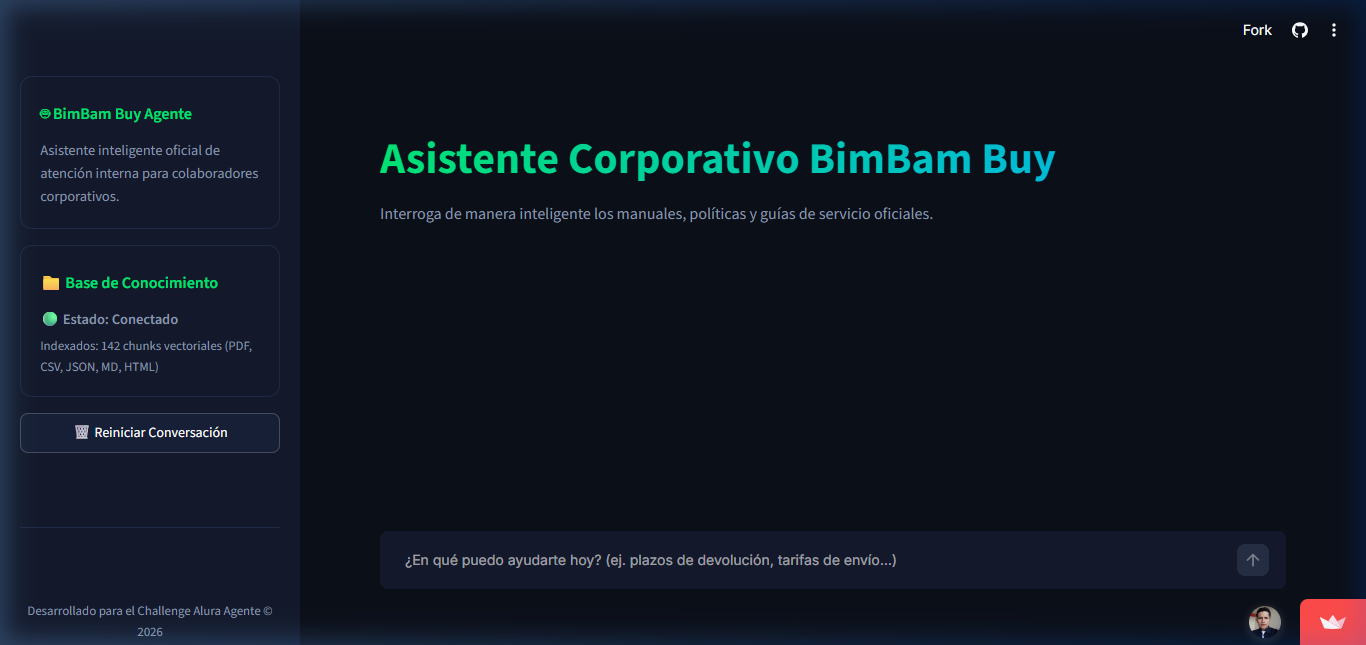
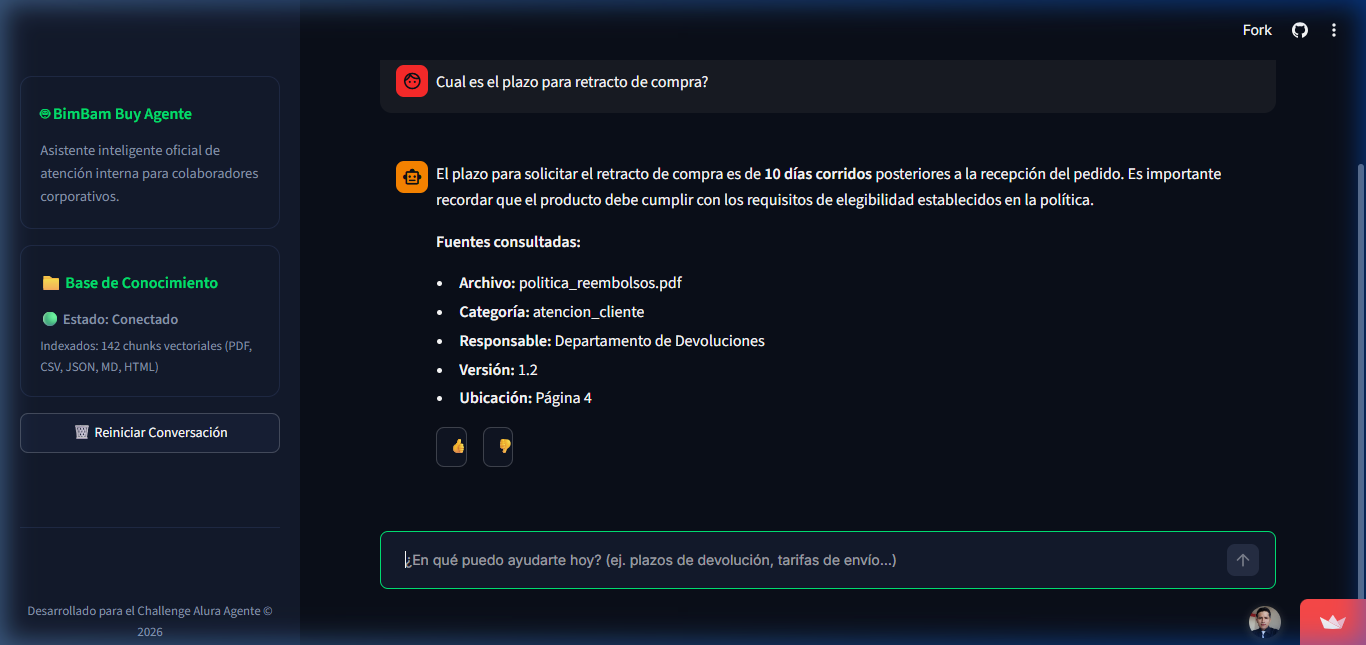
docs: actualizar README y captura de pantalla final de produccion
- Actualizadas tecnologias, variables de entorno y arquitectura hibrida

- Agregada explicacion de optimizaciones de latencia y cuotas con Groq + Qwen

- Reemplazada app_screenshot.png con captura real de Qwen respondiendo instantaneamente en Streamlit Cloud

diff --git a/README.md b/README.md
@@ -29,7 +29,7 @@ El flujo operativo del agente se divide en tres fases principales:
 - **Lenguaje:** Python 3.10+
 - **Orquestación de IA:** LangChain & LangGraph
 - **Base de Datos Vectorial:** FAISS / Chroma
-- **Modelos de IA:** API de Google Gemini (`gemini-flash-latest` y `models/gemini-embedding-001`)
+- **Modelos de IA:** API de Groq con el modelo **`qwen/qwen3.6-27b`** (razonamiento ReAct) y API de Google Gemini (**`models/gemini-embedding-001`** para embeddings vectoriales)
 - **Interfaz Web:** Streamlit
 - **Infraestructura Cloud:** Oracle Cloud Infrastructure (OCI)
 
@@ -60,7 +60,8 @@ pip install -r requirements.txt
 ### 4. Configurar Variables de Entorno
 Crea un archivo `.env` en la raíz del proyecto a partir de `.env.example`:
 ```bash
-GEMINI_API_KEY=tu_api_key_aqui
+GOOGLE_API_KEY=tu_api_key_de_google_aqui # Para embeddings vectoriales de FAISS
+GROQ_API_KEY=tu_api_key_de_groq_aqui     # Para el agente conversacional Qwen
 ```
 
 ### 5. Ingesta de Documentos
@@ -85,8 +86,8 @@ Debido a limitaciones temporales de disponibilidad de recursos gratuitos en las 
 [ OCI Object Storage ] --(Descarga Segura HTTP)--> [ App Streamlit Cloud ]
 (Bucket: bimbam-buy-docs)                           (bimbambuy-agente)
                                                             |
-                                                   [ Gemini API (LLM) ]
-                                                   (gemini-flash-latest)
+                                                   [ Groq LPU API ]
+                                                   (qwen/qwen3.6-27b)
 ```
 
 ### 1. Almacenamiento en OCI Object Storage
@@ -101,10 +102,10 @@ La interfaz interactiva y el motor RAG están alojados en **Streamlit Community 
 * **URL de Producción:** [https://bimbambuy-agente.streamlit.app/](https://bimbambuy-agente.streamlit.app/)
 * **CI/CD:** El despliegue se sincroniza automáticamente con cada `git push` a la rama `main` de este repositorio.
 
-### 3. Optimizaciones para Cuotas Gratuitas de API (Mitigación de 429)
-Para permitir que la aplicación funcione de manera estable con la API gratuita de Gemini, implementamos dos optimizaciones críticas:
-* **Pre-Indexación Vectorial:** La base de datos vectorial FAISS se pre-compiló localmente y se subió en el repositorio (`faiss_index/`), evitando que el servidor en la nube consuma la cuota de embeddings en el arranque.
-* **Manejo de Reintentos Exponenciales:** Tanto el Agente ReAct en `agent.py` (`max_retries=12`) como la interfaz en `app.py` tienen controladores que detectan errores de cuota (`RESOURCE_EXHAUSTED` / 429), pausando la ejecución 15 segundos y reintentando automáticamente en lugar de lanzar un error al usuario.
+### 3. Optimizaciones para Latencia y Cuotas (Migración a Groq + Qwen)
+Para permitir que la aplicación funcione de manera estable en la nube sin retrasos ni fallos por cuota de uso (como el error HTTP 429), implementamos dos optimizaciones críticas:
+* **Pre-Indexación Vectorial:** La base de datos vectorial FAISS se pre-compiló localmente y se subió en el repositorio (`faiss_index/`), evitando consumir la cuota de embeddings en cada arranque de la app en la nube.
+* **Procesamiento Híbrido Groq (Qwen):** Migramos el procesamiento conversacional del agente ReAct a **Groq** utilizando el modelo **`qwen/qwen3.6-27b`**. Esto reduce el tiempo de respuesta del agente a menos de **1.5 segundos** por consulta, ofrece mayor robustez de razonamiento que los modelos ligeros de 8B, y cuenta con un presupuesto de tokens independiente y generoso, evitando bloqueos por IP compartida en Streamlit Cloud. La API de Google Gemini se mantiene únicamente para embeddings locales puntuales de la consulta del usuario.
 
 ### 4. Alternativa de Despliegue Persistente en VM de OCI
 Si deseas realizar el despliegue directo dentro de una máquina virtual (Compute Instance) de Linux en OCI, hemos dejado en la raíz los archivos de configuración listos para producción:
